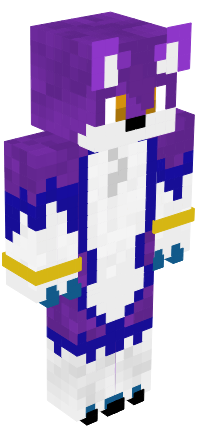
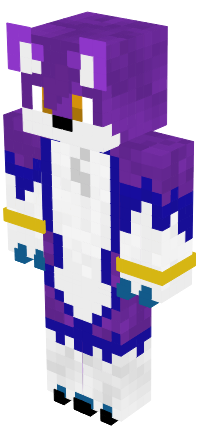
added a contact me script, added the main body to the index page. added my character skin to the index page

diff --git a/index.html b/index.html
@@ -36,11 +36,18 @@
 				<input type="submit" value="Send">
 				<input type="reset" value="Reset">
 				</form>
-				<a href='mailto:benjamin.t.harrison24@gmail.com'>Email Me!</a> 
 			</div>
 		</div>
 		<div id="mainBody">
-			index
+			<div id="skin">
+				<img src="images/skin.png" style="height: auto; width: auto; float: right">
+			</div>
+			<span style="font-size: 3rem; font-weight: bold; text-decoration: underline;">Hi! I'm Thorn</span> <br><br>
+			Welcome to my portfolio. <br>
+			This site is a collection of all my previous builds, work in progress builds and a place to contact me about commissions. Every image of minecraft on this site is of my own creation. <br><br>
+			I am a Minecraft builder with aspirations of becoming a programmer. I have worked on a number of builds in the past, and have recieved experience with multiple different themes as a result. Medieval and Sci-fi to name a few. <br><br>
+			In the past I have worked with a Youtuber to create the spawn for their server, constructed multiple builds of my own and worked for a build team, but left as my interest in the game lessened. When my interest was peaked again, I began building for a University upon request. The work done for the university has included custom terrain, an underwater dome-based spawn area, a custom Survival games map (WIP) and more to come. <br> <br>
+			Feel free to look at my past work, which is documented on this website with work in progress pictures of how it progressed. If you wish to contact me, there is a form in the menu. From there, I can give you more information and a quote.
 		</div>
 		
 		<div id="footer">

diff --git a/css/style.css b/css/style.css
@@ -5,7 +5,7 @@
 	float: left;
 	background: #008ed1;
 	height: 4rem;
-	font-size: 25;
+	font-size: 3rem;
 	border-radius: 25px;
 	border-width: 5px;
 	border-color: #00e0d9;
@@ -59,16 +59,19 @@
 #mainBody
 {
 	float: left;
-	width: 72%;
+	width: 70%;
 	height: 90%;
 	background-color: #333333;
-	margin-left: 13%;
+	margin-left: 12%;
 	border-radius: 40px;
 	border-style: double;
 	border-width: 1%;
 	border-color: #00e0d9;
-	padding: 1rem;
+	padding: 3%;
 	box-shadow: 0 4px 8px 0 rgba(0, 0, 0, 0.8), 0 6px 20px 0 rgba(0, 0, 0, 0.19);
+	
+	font-size: 2rem;
+	color: white;
 }
 
 #footer

diff --git a/contact_form.php b/contact_form.php
@@ -1,0 +1,15 @@
+<?php
+$name = $_POST['name'];
+$email_address = $_POST['email_address'];
+$message = $_POST['contact_message'];
+
+function filter_email($form_field) {
+	return preg_replace('/[nr|!/<>^$%*&]+/', '', $form_field);
+}
+
+$email_address = filter_email($email_address);
+
+$headers = "From: &email_address";
+$sent = mail('benjamin.t.harrison24@gmail.com', 'contact form submission', $message, $headers, $name);
+header("Location: index.html");
+?>
